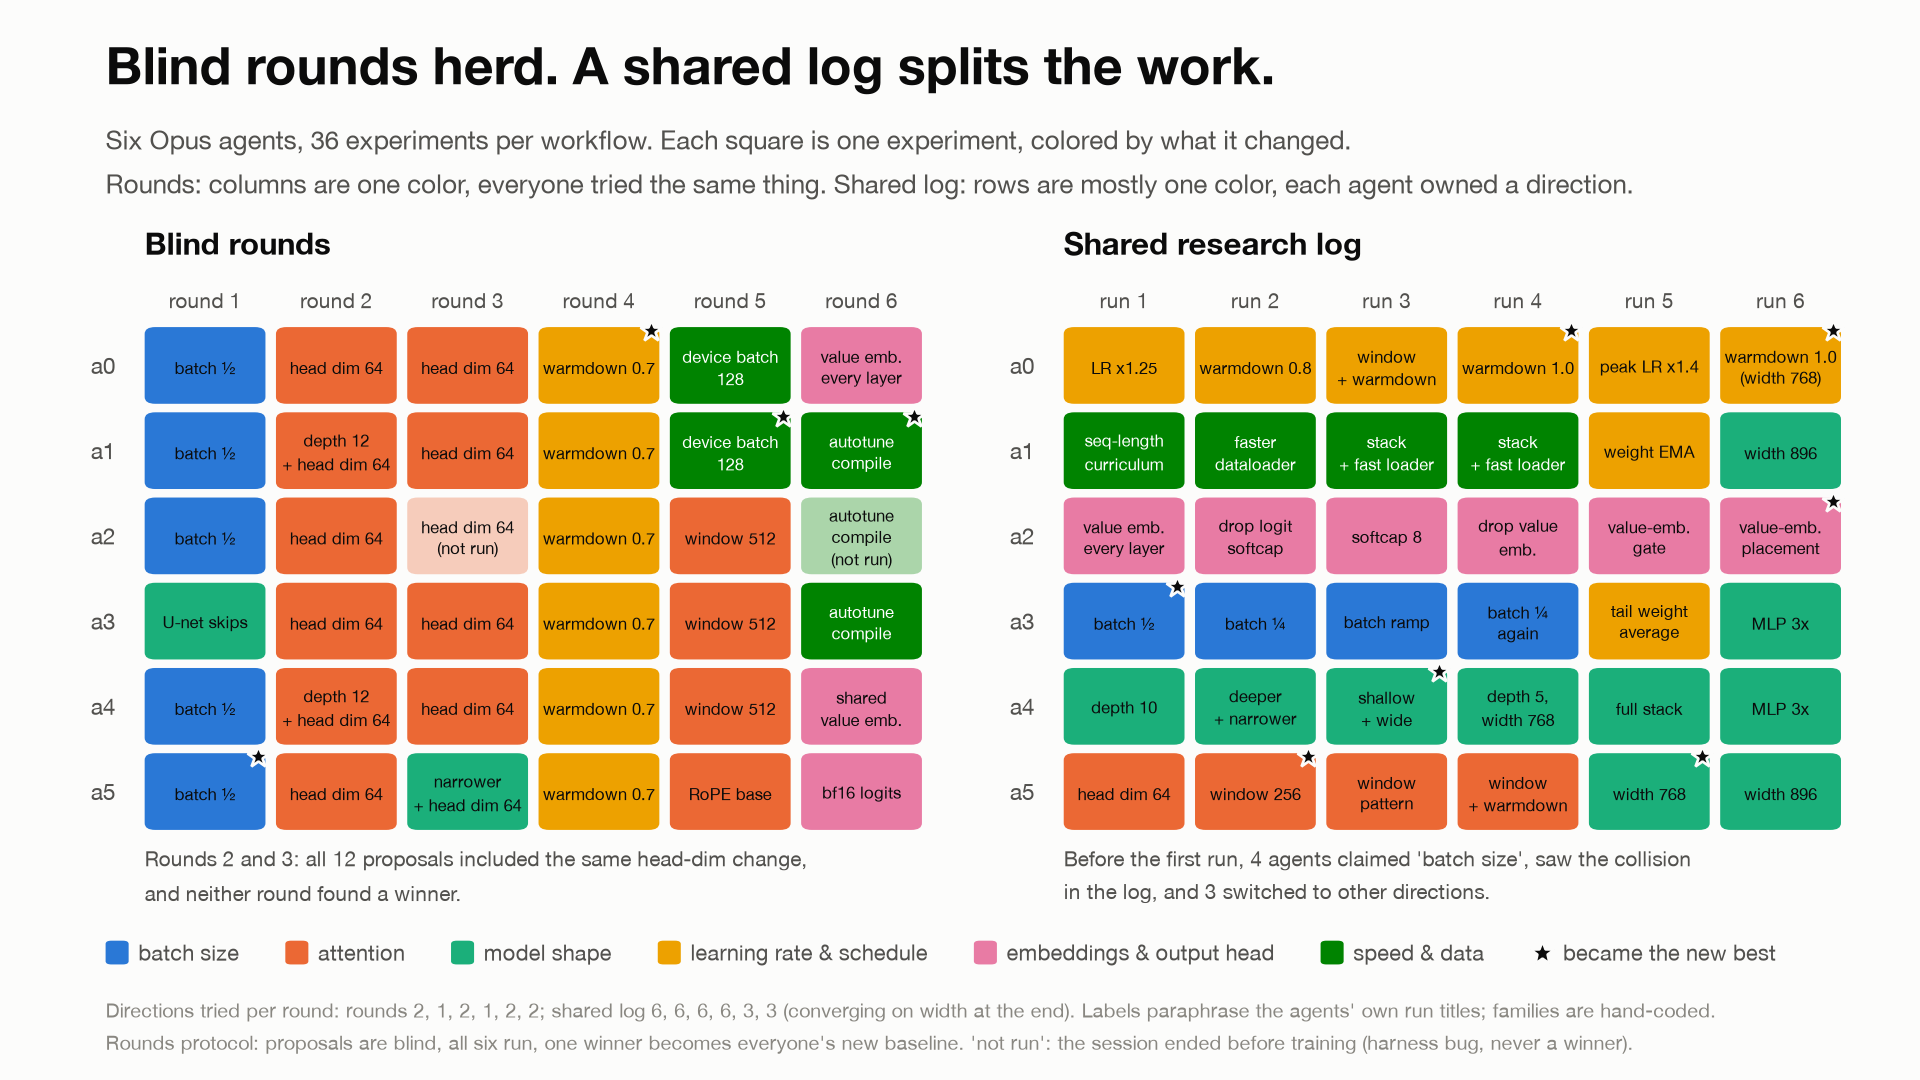
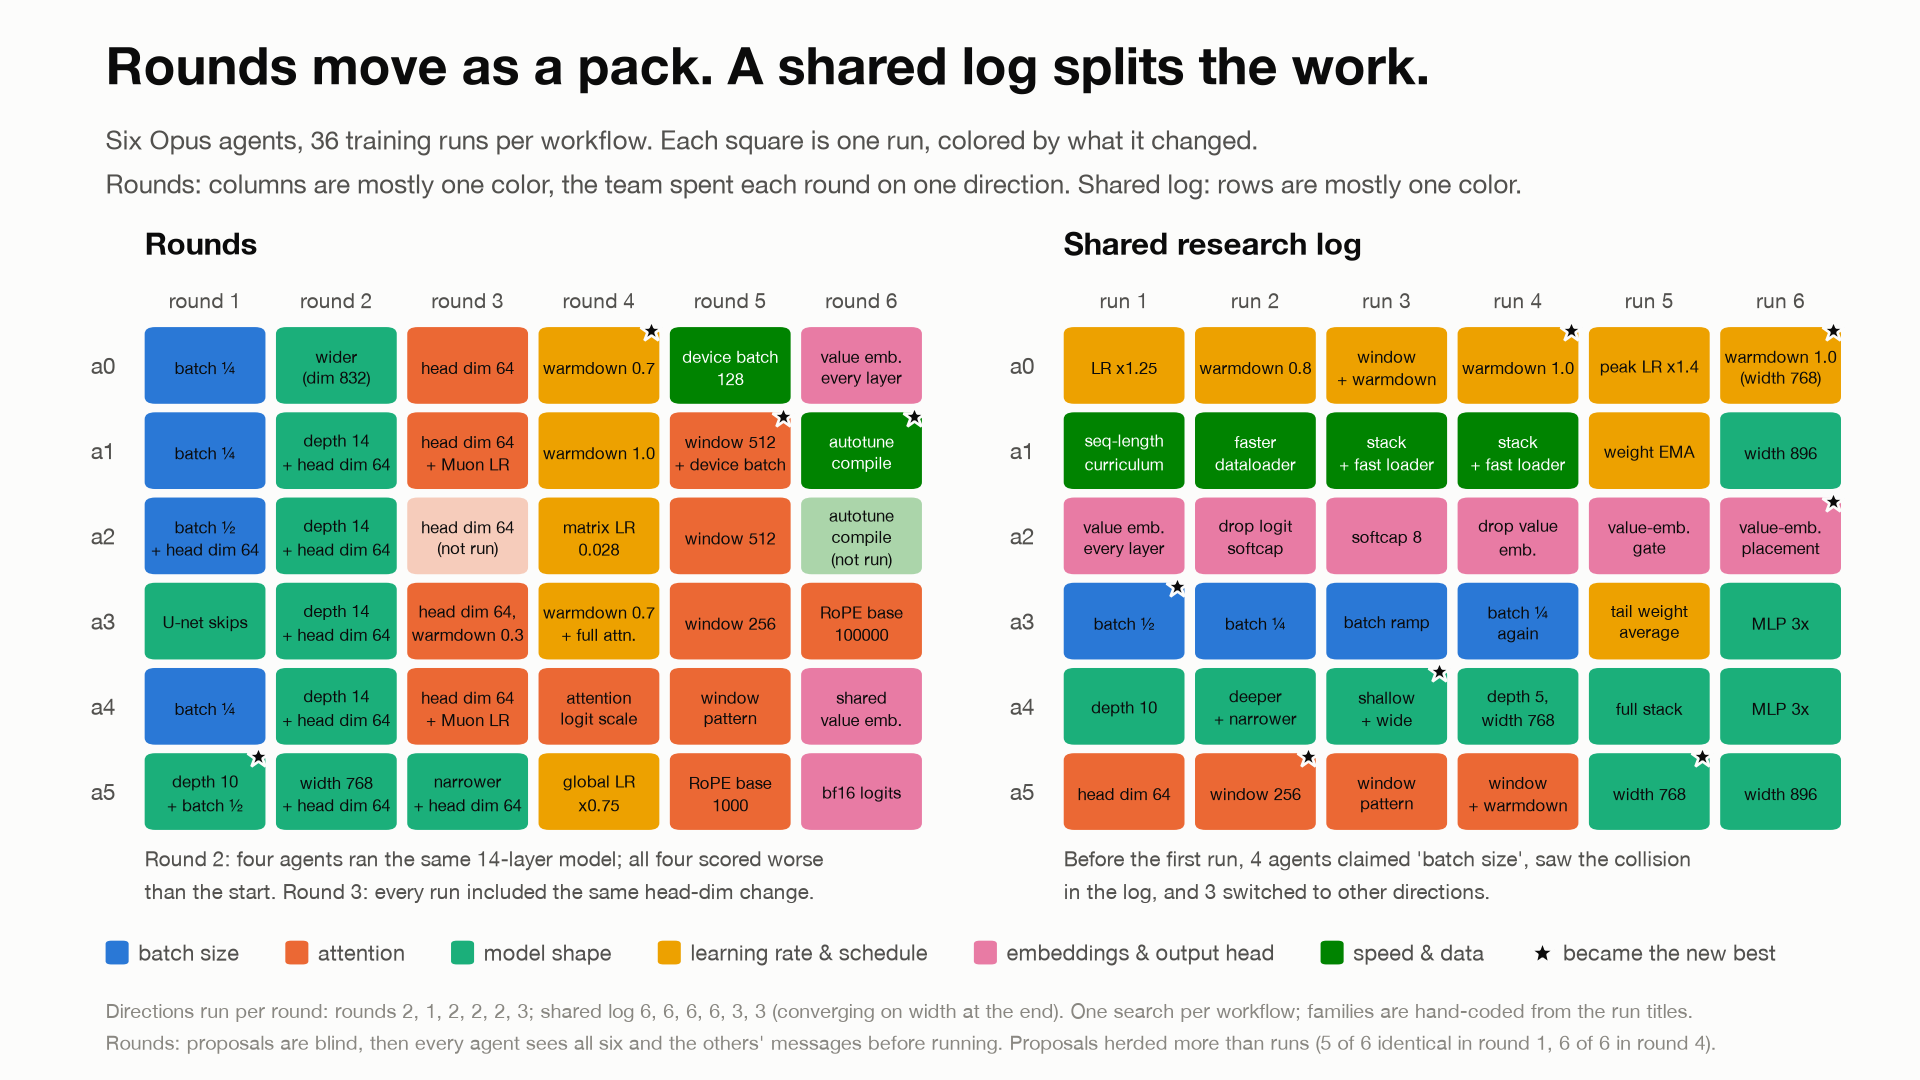
Herding figure: rounds panel shows what agents actually ran (not proposals); rounds are not communication-free
Agents in the rounds protocol propose blind, then see all six proposals and each
other's messages before running, and often ran something else (round 4: six
identical proposals, two ran it). The panel now shows executed runs; the
pack pattern holds at the level of directions (round 2: four agents ran the same
14-layer model). Caught by the external review.

diff --git a/analysis/slides_figures.py b/analysis/slides_figures.py
@@ -219,19 +219,20 @@ def fig2():
 
 # ---- 3. herding -------------------------------------------------------------------------
 # (agent) -> six (label, family, star, note) in time order. Labels paraphrase the agents' own titles.
-ROUNDS_OPUS6 = {  # results/opus_6, proposals by round; star = round winner (became the new baseline)
-    "a0": [("batch ½", "batch", 0, ""), ("head dim 64", "attn", 0, ""), ("head dim 64", "attn", 0, ""),
+ROUNDS_OPUS6 = {  # results/opus_6: what each agent actually RAN each round (candidate titles, not proposals);
+    # star = round winner (became everyone's new baseline). 'not run': the proposal never reached the GPU.
+    "a0": [("batch ¼", "batch", 0, ""), ("wider\n(dim 832)", "shape", 0, ""), ("head dim 64", "attn", 0, ""),
            ("warmdown 0.7", "sched", 1, ""), ("device batch\n128", "speed", 0, ""), ("value emb.\nevery layer", "emb", 0, "")],
-    "a1": [("batch ½", "batch", 0, ""), ("depth 12\n+ head dim 64", "attn", 0, ""), ("head dim 64", "attn", 0, ""),
-           ("warmdown 0.7", "sched", 0, ""), ("device batch\n128", "speed", 1, ""), ("autotune\ncompile", "speed", 1, "")],
-    "a2": [("batch ½", "batch", 0, ""), ("head dim 64", "attn", 0, ""), ("head dim 64", "attn", 0, "not run"),
-           ("warmdown 0.7", "sched", 0, ""), ("window 512", "attn", 0, ""), ("autotune\ncompile", "speed", 0, "not run")],
-    "a3": [("U-net skips", "shape", 0, ""), ("head dim 64", "attn", 0, ""), ("head dim 64", "attn", 0, ""),
-           ("warmdown 0.7", "sched", 0, ""), ("window 512", "attn", 0, ""), ("autotune\ncompile", "speed", 0, "")],
-    "a4": [("batch ½", "batch", 0, ""), ("depth 12\n+ head dim 64", "attn", 0, ""), ("head dim 64", "attn", 0, ""),
-           ("warmdown 0.7", "sched", 0, ""), ("window 512", "attn", 0, ""), ("shared\nvalue emb.", "emb", 0, "")],
-    "a5": [("batch ½", "batch", 1, ""), ("head dim 64", "attn", 0, ""), ("narrower\n+ head dim 64", "shape", 0, ""),
-           ("warmdown 0.7", "sched", 0, ""), ("RoPE base", "attn", 0, ""), ("bf16 logits", "emb", 0, "")],
+    "a1": [("batch ¼", "batch", 0, ""), ("depth 14\n+ head dim 64", "shape", 0, ""), ("head dim 64\n+ Muon LR", "attn", 0, ""),
+           ("warmdown 1.0", "sched", 0, ""), ("window 512\n+ device batch", "attn", 1, ""), ("autotune\ncompile", "speed", 1, "")],
+    "a2": [("batch ½\n+ head dim 64", "batch", 0, ""), ("depth 14\n+ head dim 64", "shape", 0, ""), ("head dim 64", "attn", 0, "not run"),
+           ("matrix LR\n0.028", "sched", 0, ""), ("window 512", "attn", 0, ""), ("autotune\ncompile", "speed", 0, "not run")],
+    "a3": [("U-net skips", "shape", 0, ""), ("depth 14\n+ head dim 64", "shape", 0, ""), ("head dim 64,\nwarmdown 0.3", "attn", 0, ""),
+           ("warmdown 0.7\n+ full attn.", "sched", 0, ""), ("window 256", "attn", 0, ""), ("RoPE base\n100000", "attn", 0, "")],
+    "a4": [("batch ¼", "batch", 0, ""), ("depth 14\n+ head dim 64", "shape", 0, ""), ("head dim 64\n+ Muon LR", "attn", 0, ""),
+           ("attention\nlogit scale", "attn", 0, ""), ("window\npattern", "attn", 0, ""), ("shared\nvalue emb.", "emb", 0, "")],
+    "a5": [("depth 10\n+ batch ½", "shape", 1, ""), ("width 768\n+ head dim 64", "shape", 0, ""), ("narrower\n+ head dim 64", "shape", 0, ""),
+           ("global LR\nx0.75", "sched", 0, ""), ("RoPE base\n1000", "attn", 0, ""), ("bf16 logits", "emb", 0, "")],
 }
 OPEN_OPUS6 = {  # results/open_opus_6, each agent's 1st..6th run (GPU rotation); star = new best in the cell
     "a0": [("LR x1.25", "sched", 0, ""), ("warmdown 0.8", "sched", 0, ""), ("window\n+ warmdown", "sched", 0, ""),
@@ -275,27 +276,27 @@ def _grid(ax, x0, grid, col_label):
 
 
 def _distinct(grid):
-    return [len({grid[a][c][1] for a in grid}) for c in range(6)]
+    return [len({grid[a][c][1] for a in grid if not grid[a][c][3]}) for c in range(6)]
 
 
 def fig3():
     d_r, d_o = _distinct(ROUNDS_OPUS6), _distinct(OPEN_OPUS6)
-    fig = frame("Blind rounds herd. A shared log splits the work.",
-                "Six Opus agents, 36 experiments per workflow. Each square is one experiment, colored by what it changed.\n"
-                "Rounds: columns are one color, everyone tried the same thing. Shared log: rows are mostly one color, each agent owned a direction.",
-                f"Directions tried per round: rounds {', '.join(map(str, d_r))}; shared log {', '.join(map(str, d_o))} "
-                "(converging on width at the end). Labels paraphrase the agents' own run titles; families are hand-coded.\n"
-                "Rounds protocol: proposals are blind, all six run, one winner becomes everyone's new baseline. "
-                "'not run': the session ended before training (harness bug, never a winner).")
+    fig = frame("Rounds move as a pack. A shared log splits the work.",
+                "Six Opus agents, 36 training runs per workflow. Each square is one run, colored by what it changed.\n"
+                "Rounds: columns are mostly one color, the team spent each round on one direction. Shared log: rows are mostly one color.",
+                f"Directions run per round: rounds {', '.join(map(str, d_r))}; shared log {', '.join(map(str, d_o))} "
+                "(converging on width at the end). One search per workflow; families are hand-coded from the run titles.\n"
+                "Rounds: proposals are blind, then every agent sees all six and the others' messages before running. Proposals herded more than runs "
+                "(5 of 6 identical in round 1, 6 of 6 in round 4).")
     ax = fig.add_axes([0.035, 0.2, 0.93, 0.58])
     ax.set_xlim(-0.55, 13.05)
     ax.set_ylim(6.35, -1.0)
     ax.axis("off")
     _grid(ax, 0, ROUNDS_OPUS6, "round")
     _grid(ax, 7.0, OPEN_OPUS6, "run")
-    ax.text(0.04, -0.72, "Blind rounds", fontsize=15, fontweight="bold", color=INK, va="bottom")
+    ax.text(0.04, -0.72, "Rounds", fontsize=15, fontweight="bold", color=INK, va="bottom")
     ax.text(7.04, -0.72, "Shared research log", fontsize=15, fontweight="bold", color=INK, va="bottom")
-    ax.text(0.04, 6.12, "Rounds 2 and 3: all 12 proposals included the same head-dim change,\nand neither round found a winner.",
+    ax.text(0.04, 6.12, "Round 2: four agents ran the same 14-layer model; all four scored worse\nthan the start. Round 3: every run included the same head-dim change.",
             fontsize=10, color=INK2, va="top", linespacing=1.35)
     ax.text(7.04, 6.12, "Before the first run, 4 agents claimed 'batch size', saw the collision\nin the log, and 3 switched to other directions.",
             fontsize=10, color=INK2, va="top", linespacing=1.35)

diff --git a/analysis_out/figures/README.md b/analysis_out/figures/README.md
@@ -7,6 +7,6 @@ Regenerate with `python -m analysis.slides_figures`. Every number is read from `
 |---|---|---|---|
 | `fig1_model_race.png` | Opus, Sonnet and Haiku, six isolated agents each, same machine, 36 runs | Same machine and budget: Opus 3.0% better, Sonnet 1.6%, Haiku 1.2%; Sonnet and Haiku lost about a fifth of their runs | One search per model; models through this harness, not idea quality alone |
 | `fig2_headcount.png` | Progress of 3 and 6 agents relative to 1 agent, per model and workflow, within one machine | Mixed: six beat one for Opus (1.2x, 1.5x) and Sonnet rounds (3.1x); three beat one in two lines; Haiku shared log got worse at six | Extra agents add thinking, not compute: same 36 runs at every size. Haiku ratios are mostly noise |
-| `fig3_herding.png` | What each of six Opus agents tried, blind rounds vs the shared log | Rounds herd (vertical stripes: all 12 proposals in rounds 2 and 3 included the same change); the shared log divides the work (horizontal stripes) | Idea families are hand-coded from the agents' run titles |
+| `fig3_herding.png` | What each of six Opus agents actually ran, rounds vs the shared log | Rounds move as a pack (columns: in round 2 four agents ran the same 14-layer model); the shared log divides the work (rows) | Rounds are not communication-free: agents see all proposals and messages before running, and proposals herded more than runs. Families hand-coded; one search per workflow |
 | `fig4_sharing_vs_isolation.png` | Six Opus agents sharing a log vs six sealed off from each other, same machine | Sharing everything did not beat seeing nothing: 2.76% vs 2.98% | One search per arm: the isolated team did not do worse; that is not equivalence, and no threshold follows from one pair |
 | `fig5_relay.png` | How the six shared-log agents built their best result, record by record | One result, five authors: every record was adopted by 3 to 5 other agents | Collaboration happened; it did not beat isolation (fig 4) |
